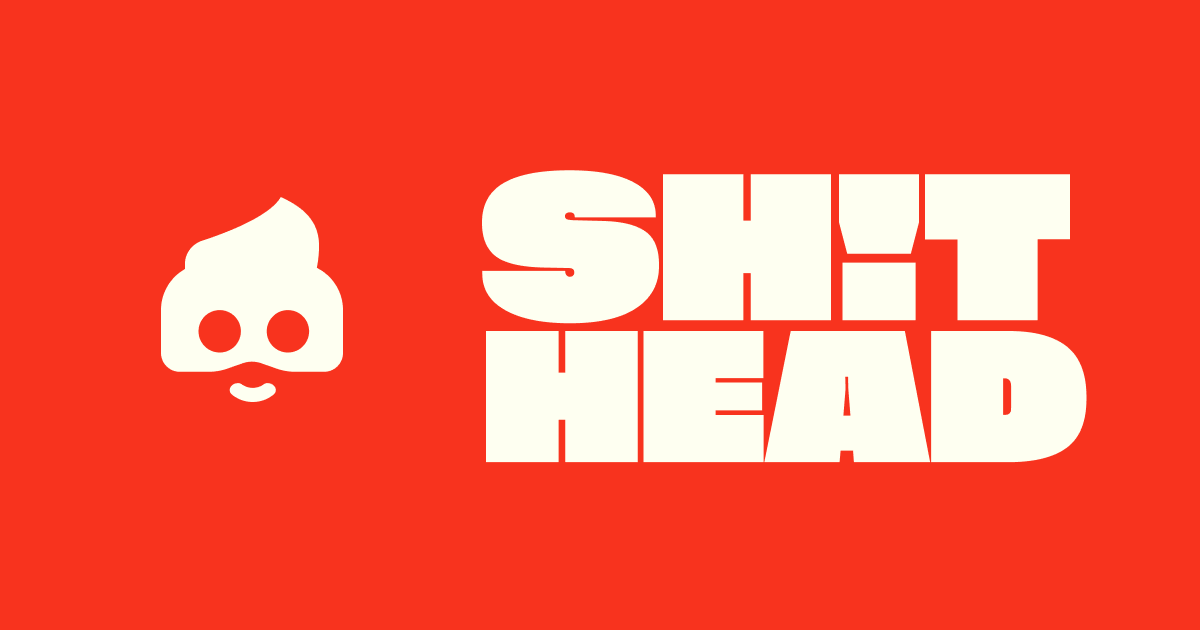
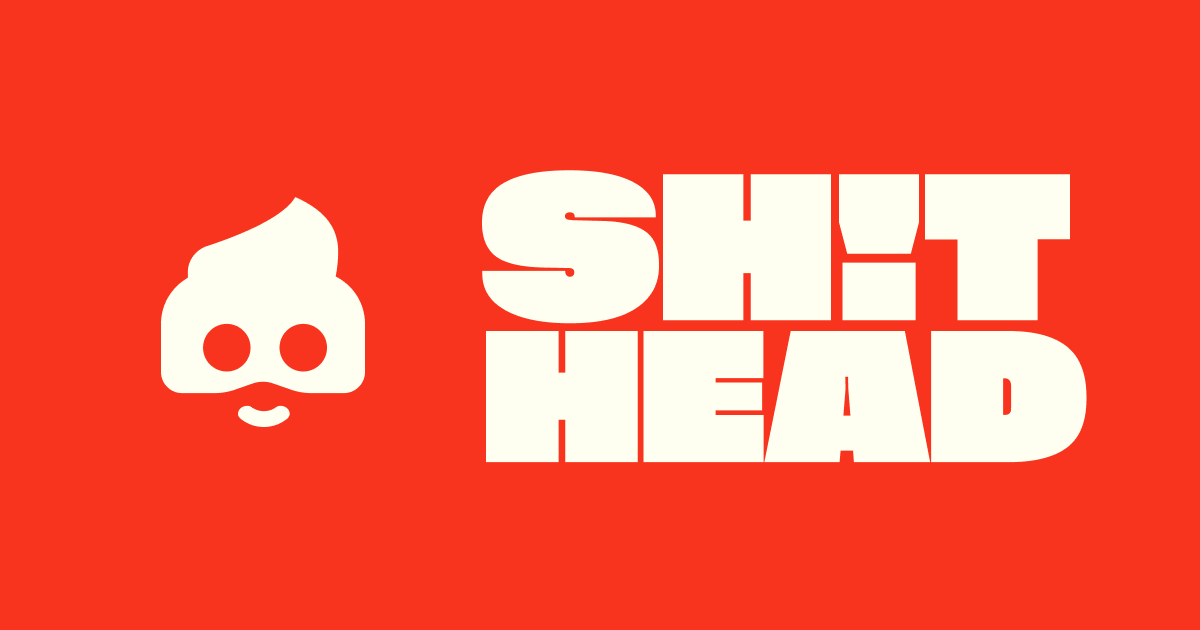
Tusker font

Changed region(s): [[0.1233, 0.3016, 0.3083, 0.6937], [0.1233, 0.4222, 0.1542, 0.4825]]

diff --git a/index.html b/index.html
@@ -42,3 +42,20 @@
     <script type="module" src="/src/main.tsx"></script>
   </body>
 </html>
+
+<style>
+  body {
+    background: red;
+  }
+
+  @font-face {
+      font-family: 'TuskerGrotesk';
+      src: url('fonts/TuskerGrotesk-9800Super.woff2') format('woff2');
+      font-weight: normal;
+      font-style: normal;
+  }
+
+  body {
+      font-family: 'TuskerGrotesk', sans-serif;
+  }
+</style>
